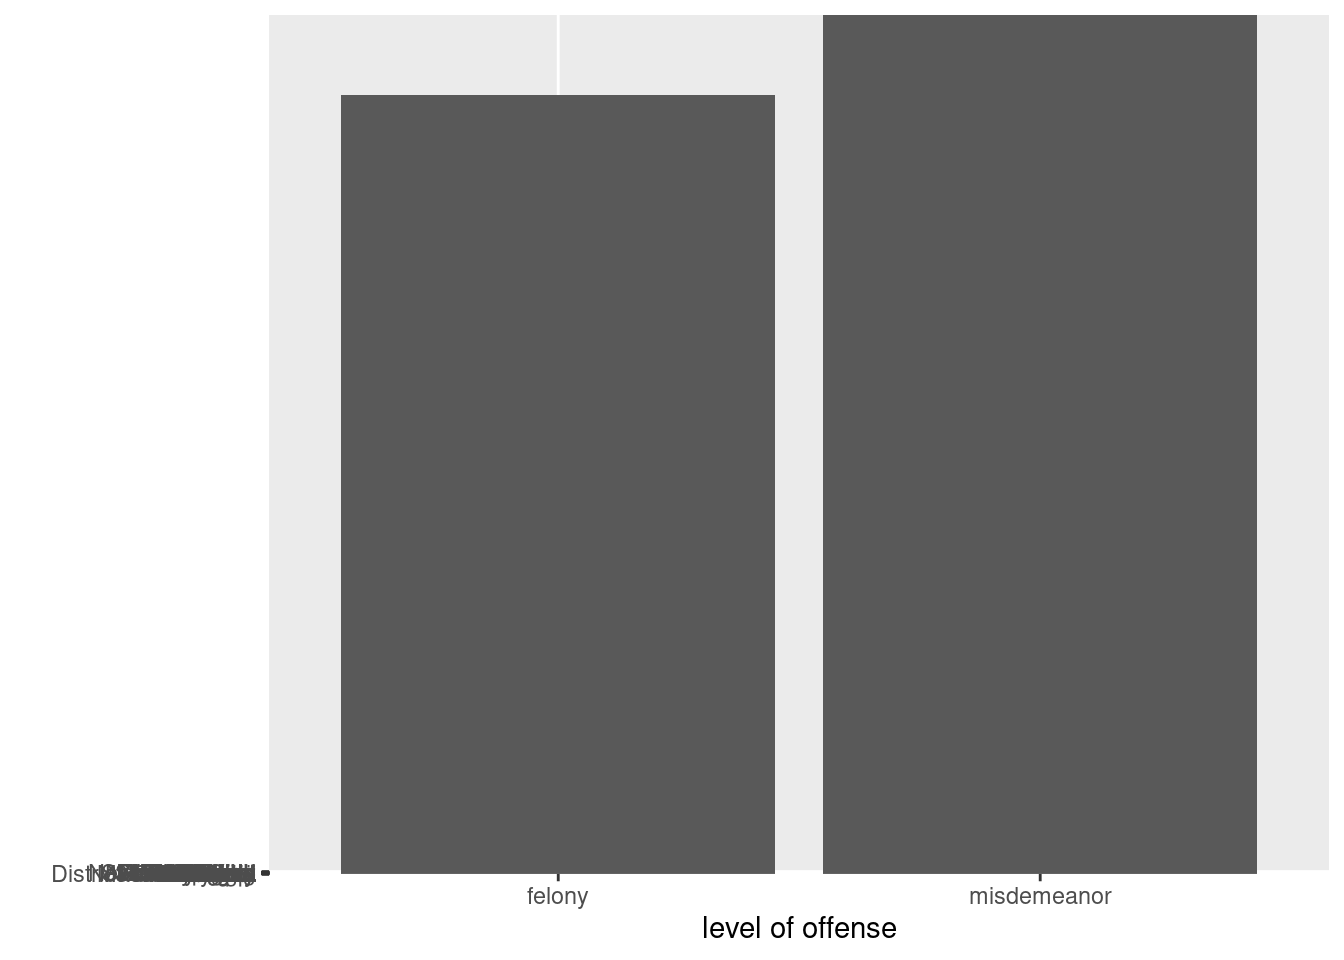
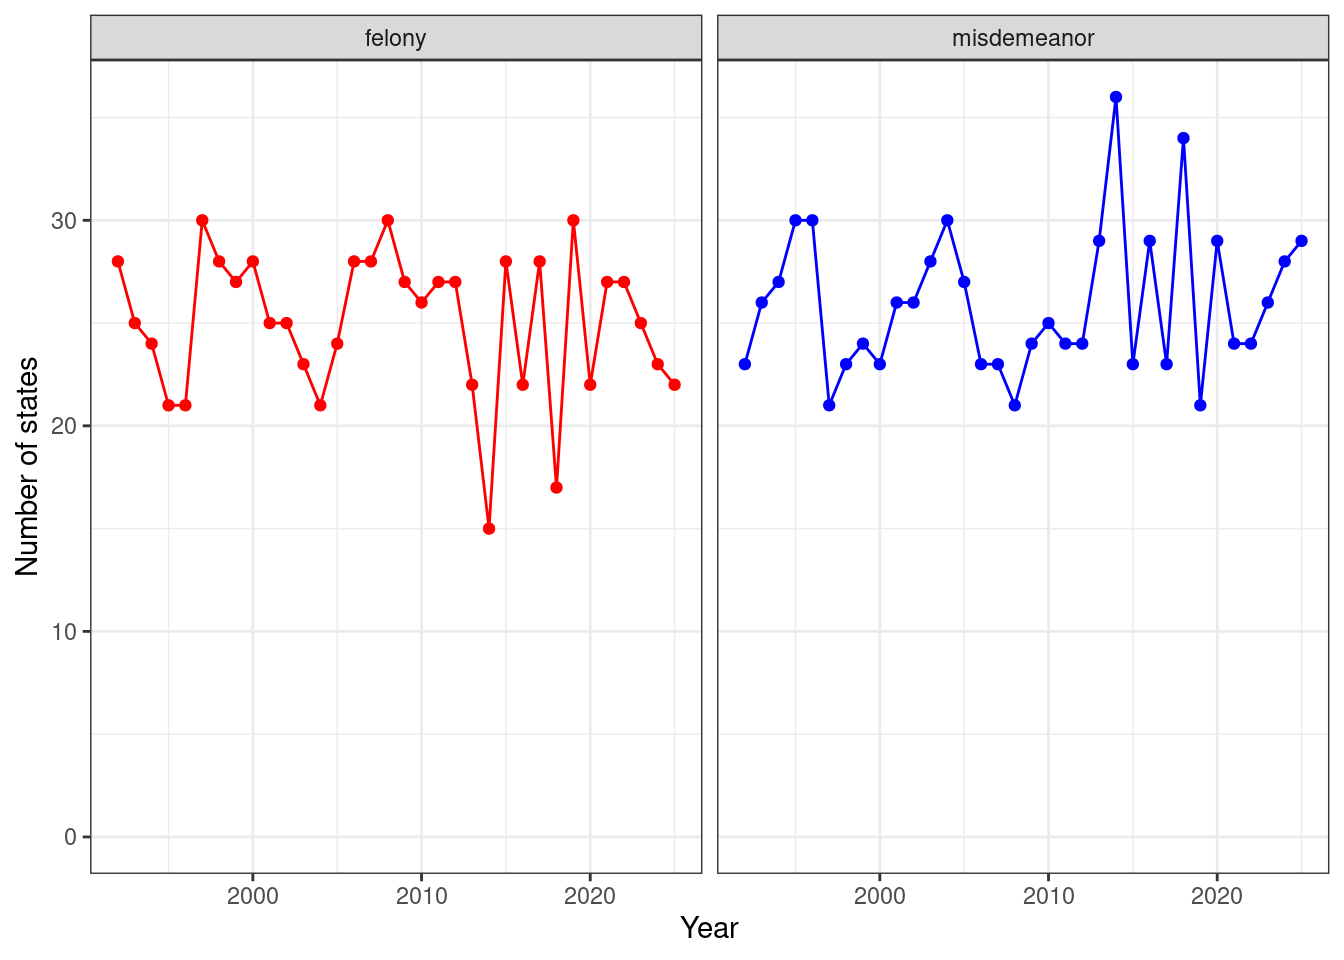
Final updates fro 4.1.25

diff --git a/Teen Access - stats 100.html b/Teen Access - stats 100.html
@@ -143,10 +143,16 @@ dbl (15): POPESTIMATE2010, POPESTIMATE2011, POPESTIMATE2012, POPESTIMATE2013...
 <p>make simulated_data into bar graph containing State, MLSA, Year, and level of offense</p>
 <div class="cell">
 <div class="sourceCode cell-code" id="cb5"><pre class="sourceCode r code-with-copy"><code class="sourceCode r"><span id="cb5-1"><a href="#cb5-1" aria-hidden="true" tabindex="-1"></a><span class="co">#make a bar chart</span></span>
-<span id="cb5-2"><a href="#cb5-2" aria-hidden="true" tabindex="-1"></a><span class="fu">ggplot</span>( simulated_data) <span class="sc">+</span></span>
-<span id="cb5-3"><a href="#cb5-3" aria-hidden="true" tabindex="-1"></a>  <span class="fu">geom_col</span>( <span class="fu">aes</span>( <span class="at">x =</span> Level_of_offense, <span class="at">y =</span> state )) <span class="sc">+</span> </span>
-<span id="cb5-4"><a href="#cb5-4" aria-hidden="true" tabindex="-1"></a>  <span class="fu">labs</span>( <span class="at">x =</span> <span class="st">"level of offense"</span>,</span>
-<span id="cb5-5"><a href="#cb5-5" aria-hidden="true" tabindex="-1"></a>        <span class="at">y =</span> <span class="st">""</span> )</span></code><button title="Copy to Clipboard" class="code-copy-button"><i class="bi"></i></button></pre></div>
+<span id="cb5-2"><a href="#cb5-2" aria-hidden="true" tabindex="-1"></a><span class="fu">ggplot</span>( simulated_data <span class="sc">|&gt;</span> <span class="fu">group_by</span>(Year, Level_of_offense) <span class="sc">|&gt;</span> <span class="fu">tally</span>() ) <span class="sc">+</span></span>
+<span id="cb5-3"><a href="#cb5-3" aria-hidden="true" tabindex="-1"></a>  <span class="fu">geom_line</span>( <span class="fu">aes</span>( <span class="at">x =</span> Year, <span class="at">y =</span> n, <span class="at">color =</span> Level_of_offense )) <span class="sc">+</span> </span>
+<span id="cb5-4"><a href="#cb5-4" aria-hidden="true" tabindex="-1"></a>  <span class="fu">geom_point</span>( <span class="fu">aes</span>( <span class="at">x =</span> Year, <span class="at">y =</span> n, <span class="at">color =</span> Level_of_offense ) ) <span class="sc">+</span></span>
+<span id="cb5-5"><a href="#cb5-5" aria-hidden="true" tabindex="-1"></a>  <span class="fu">scale_color_manual</span>( <span class="at">values =</span> <span class="fu">c</span>(<span class="st">"red"</span>,<span class="st">"blue"</span>) ) <span class="sc">+</span></span>
+<span id="cb5-6"><a href="#cb5-6" aria-hidden="true" tabindex="-1"></a>  <span class="fu">facet_wrap</span>(<span class="sc">~</span>Level_of_offense) <span class="sc">+</span></span>
+<span id="cb5-7"><a href="#cb5-7" aria-hidden="true" tabindex="-1"></a>  <span class="fu">expand_limits</span>(<span class="at">y =</span> <span class="dv">0</span>) <span class="sc">+</span></span>
+<span id="cb5-8"><a href="#cb5-8" aria-hidden="true" tabindex="-1"></a>  <span class="fu">labs</span>( <span class="at">x =</span> <span class="st">"Year"</span>,</span>
+<span id="cb5-9"><a href="#cb5-9" aria-hidden="true" tabindex="-1"></a>        <span class="at">y =</span> <span class="st">"Number of states"</span> ) <span class="sc">+</span></span>
+<span id="cb5-10"><a href="#cb5-10" aria-hidden="true" tabindex="-1"></a>  <span class="fu">theme_bw</span>() <span class="sc">+</span></span>
+<span id="cb5-11"><a href="#cb5-11" aria-hidden="true" tabindex="-1"></a>  <span class="fu">theme</span>( <span class="at">legend.position =</span> <span class="st">"none"</span>)</span></code><button title="Copy to Clipboard" class="code-copy-button"><i class="bi"></i></button></pre></div>
 <div class="cell-output-display">
 <div>
 <figure class="figure">
@@ -155,15 +161,19 @@ dbl (15): POPESTIMATE2010, POPESTIMATE2011, POPESTIMATE2012, POPESTIMATE2013...
 </div>
 </div>
 </div>
-<p>MLSA per state from 1992 to 2025</p>
+<p>READ DATA #ADD CSV ```{r}</p>
 <div class="cell">
-<div class="sourceCode cell-code" id="cb6"><pre class="sourceCode r code-with-copy"><code class="sourceCode r"><span id="cb6-1"><a href="#cb6-1" aria-hidden="true" tabindex="-1"></a><span class="fu">ggplot</span>( simulated_data) <span class="sc">+</span> </span>
-<span id="cb6-2"><a href="#cb6-2" aria-hidden="true" tabindex="-1"></a><span class="fu">geom_line</span>(<span class="fu">aes</span>( <span class="at">x =</span> Year, <span class="at">y =</span> MLSA, <span class="at">color =</span> state) ) <span class="sc">+</span> </span>
-<span id="cb6-3"><a href="#cb6-3" aria-hidden="true" tabindex="-1"></a><span class="fu">theme_bw</span>( <span class="at">base_size =</span> <span class="dv">12</span>) <span class="sc">+</span> </span>
-<span id="cb6-4"><a href="#cb6-4" aria-hidden="true" tabindex="-1"></a><span class="fu">theme</span>( <span class="at">legend.position =</span> <span class="st">"bottom"</span> ) <span class="sc">+</span> </span>
-<span id="cb6-5"><a href="#cb6-5" aria-hidden="true" tabindex="-1"></a><span class="fu">expand_limits</span>( <span class="at">y =</span> <span class="dv">0</span>) <span class="sc">+</span></span>
-<span id="cb6-6"><a href="#cb6-6" aria-hidden="true" tabindex="-1"></a><span class="fu">labs</span>( <span class="at">x =</span> <span class="st">"Year"</span>, <span class="at">y =</span> <span class="st">"MLSA"</span>, </span>
-<span id="cb6-7"><a href="#cb6-7" aria-hidden="true" tabindex="-1"></a><span class="at">title =</span> <span class="st">"MLSA per state from 1992 to 2025"</span>)</span></code><button title="Copy to Clipboard" class="code-copy-button"><i class="bi"></i></button></pre></div>
+<div class="sourceCode cell-code" id="cb6"><pre class="sourceCode r code-with-copy"><code class="sourceCode r"><span id="cb6-1"><a href="#cb6-1" aria-hidden="true" tabindex="-1"></a><span class="do">#### Read in the data ####</span></span>
+<span id="cb6-2"><a href="#cb6-2" aria-hidden="true" tabindex="-1"></a></span>
+<span id="cb6-3"><a href="#cb6-3" aria-hidden="true" tabindex="-1"></a>MLSA <span class="ot">&lt;-</span> <span class="fu">read_csv</span>(<span class="at">file =</span> <span class="st">"Restrictions on Sales to Underage Persons_ States with Laws Prohibiting Sales of E-Cigarettes to Underage Persons (Enacted as of June 30, 2024 (n=58)).csv"</span>, <span class="at">show_col_types =</span> <span class="cn">FALSE</span>)</span>
+<span id="cb6-4"><a href="#cb6-4" aria-hidden="true" tabindex="-1"></a></span>
+<span id="cb6-5"><a href="#cb6-5" aria-hidden="true" tabindex="-1"></a>new_mlsa <span class="ot">&lt;-</span> <span class="fu">read_csv</span>(<span class="st">"States and Territories with a Minimum Legal Sales Age (MLSA) of 21 Years for Purchasing Any Tobacco Product – Laws Enacted by September 30, 2024 (n=58).csv"</span>, <span class="at">show_col_types =</span> F)</span>
+<span id="cb6-6"><a href="#cb6-6" aria-hidden="true" tabindex="-1"></a></span>
+<span id="cb6-7"><a href="#cb6-7" aria-hidden="true" tabindex="-1"></a>new_mlsa <span class="sc">|&gt;</span> </span>
+<span id="cb6-8"><a href="#cb6-8" aria-hidden="true" tabindex="-1"></a>  <span class="fu">group_by</span>( ProvisionValue ) <span class="sc">|&gt;</span></span>
+<span id="cb6-9"><a href="#cb6-9" aria-hidden="true" tabindex="-1"></a>  <span class="fu">tally</span>() <span class="sc">|&gt;</span></span>
+<span id="cb6-10"><a href="#cb6-10" aria-hidden="true" tabindex="-1"></a>  <span class="fu">ggplot</span>( <span class="fu">aes</span>( <span class="at">x =</span> ProvisionValue, <span class="at">y =</span> n )) <span class="sc">+</span></span>
+<span id="cb6-11"><a href="#cb6-11" aria-hidden="true" tabindex="-1"></a>  <span class="fu">geom_col</span>()</span></code><button title="Copy to Clipboard" class="code-copy-button"><i class="bi"></i></button></pre></div>
 <div class="cell-output-display">
 <div>
 <figure class="figure">
@@ -172,34 +182,6 @@ dbl (15): POPESTIMATE2010, POPESTIMATE2011, POPESTIMATE2012, POPESTIMATE2013...
 </div>
 </div>
 </div>
-<p>top ten states with lowest MLSA from 1992 to 2025.</p>
-<div class="cell">
-<div class="sourceCode cell-code" id="cb7"><pre class="sourceCode r code-with-copy"><code class="sourceCode r"><span id="cb7-1"><a href="#cb7-1" aria-hidden="true" tabindex="-1"></a><span class="co"># View( simulated_data |&gt; arrange( desc( MLSA )))</span></span>
-<span id="cb7-2"><a href="#cb7-2" aria-hidden="true" tabindex="-1"></a></span>
-<span id="cb7-3"><a href="#cb7-3" aria-hidden="true" tabindex="-1"></a>top10states <span class="ot">&lt;-</span> simulated_data <span class="sc">|&gt;</span> </span>
-<span id="cb7-4"><a href="#cb7-4" aria-hidden="true" tabindex="-1"></a>  <span class="fu">arrange</span>(<span class="fu">desc</span>(MLSA)) <span class="sc">|&gt;</span></span>
-<span id="cb7-5"><a href="#cb7-5" aria-hidden="true" tabindex="-1"></a>  <span class="fu">slice_head</span>(<span class="at">n =</span> <span class="dv">10</span> ) <span class="sc">|&gt;</span></span>
-<span id="cb7-6"><a href="#cb7-6" aria-hidden="true" tabindex="-1"></a>  <span class="fu">pull</span>( state )</span>
-<span id="cb7-7"><a href="#cb7-7" aria-hidden="true" tabindex="-1"></a></span>
-<span id="cb7-8"><a href="#cb7-8" aria-hidden="true" tabindex="-1"></a><span class="fu">ggplot</span>( simulated_data <span class="sc">|&gt;</span></span>
-<span id="cb7-9"><a href="#cb7-9" aria-hidden="true" tabindex="-1"></a>      <span class="fu">filter</span>( state <span class="sc">%in%</span> top10states ) ) <span class="sc">+</span></span>
-<span id="cb7-10"><a href="#cb7-10" aria-hidden="true" tabindex="-1"></a><span class="fu">geom_line</span>(<span class="fu">aes</span>( <span class="at">x =</span> Year, <span class="at">y =</span> MLSA, <span class="at">color =</span> state) ) <span class="sc">+</span> </span>
-<span id="cb7-11"><a href="#cb7-11" aria-hidden="true" tabindex="-1"></a><span class="fu">theme_bw</span>( <span class="at">base_size =</span> <span class="dv">12</span>) <span class="sc">+</span> </span>
-<span id="cb7-12"><a href="#cb7-12" aria-hidden="true" tabindex="-1"></a><span class="fu">theme</span>( <span class="at">legend.position =</span> <span class="st">"bottom"</span> ) <span class="sc">+</span> </span>
-<span id="cb7-13"><a href="#cb7-13" aria-hidden="true" tabindex="-1"></a><span class="fu">expand_limits</span>( <span class="at">y =</span> <span class="dv">0</span>) <span class="sc">+</span></span>
-<span id="cb7-14"><a href="#cb7-14" aria-hidden="true" tabindex="-1"></a><span class="fu">labs</span>( <span class="at">x =</span> <span class="st">"Year"</span>, <span class="at">y =</span> <span class="st">"MLSA"</span>, </span>
-<span id="cb7-15"><a href="#cb7-15" aria-hidden="true" tabindex="-1"></a><span class="at">title =</span> <span class="st">"10 lowest MLSAs from 1992 to 2025"</span>)</span></code><button title="Copy to Clipboard" class="code-copy-button"><i class="bi"></i></button></pre></div>
-<div class="cell-output-display">
-<div>
-<figure class="figure">
-<p><img src="Teen-Access---stats-100_files/figure-html/unnamed-chunk-7-1.png" class="img-fluid figure-img" width="672"></p>
-</figure>
-</div>
-</div>
-</div>
-<p>####visualize data####</p>
-<p>simulated_data |&gt; ggplot(aes(x = Year))+ geom_line()</p>
-<p>teen_access_data |&gt; ggplot(aes(x = Year)) + geom_line() + theme_minimal() + labs(x = year, y = MLSA, z = MLSA) #facitrap??????</p>
 
 </main>
 <!-- /main column -->
